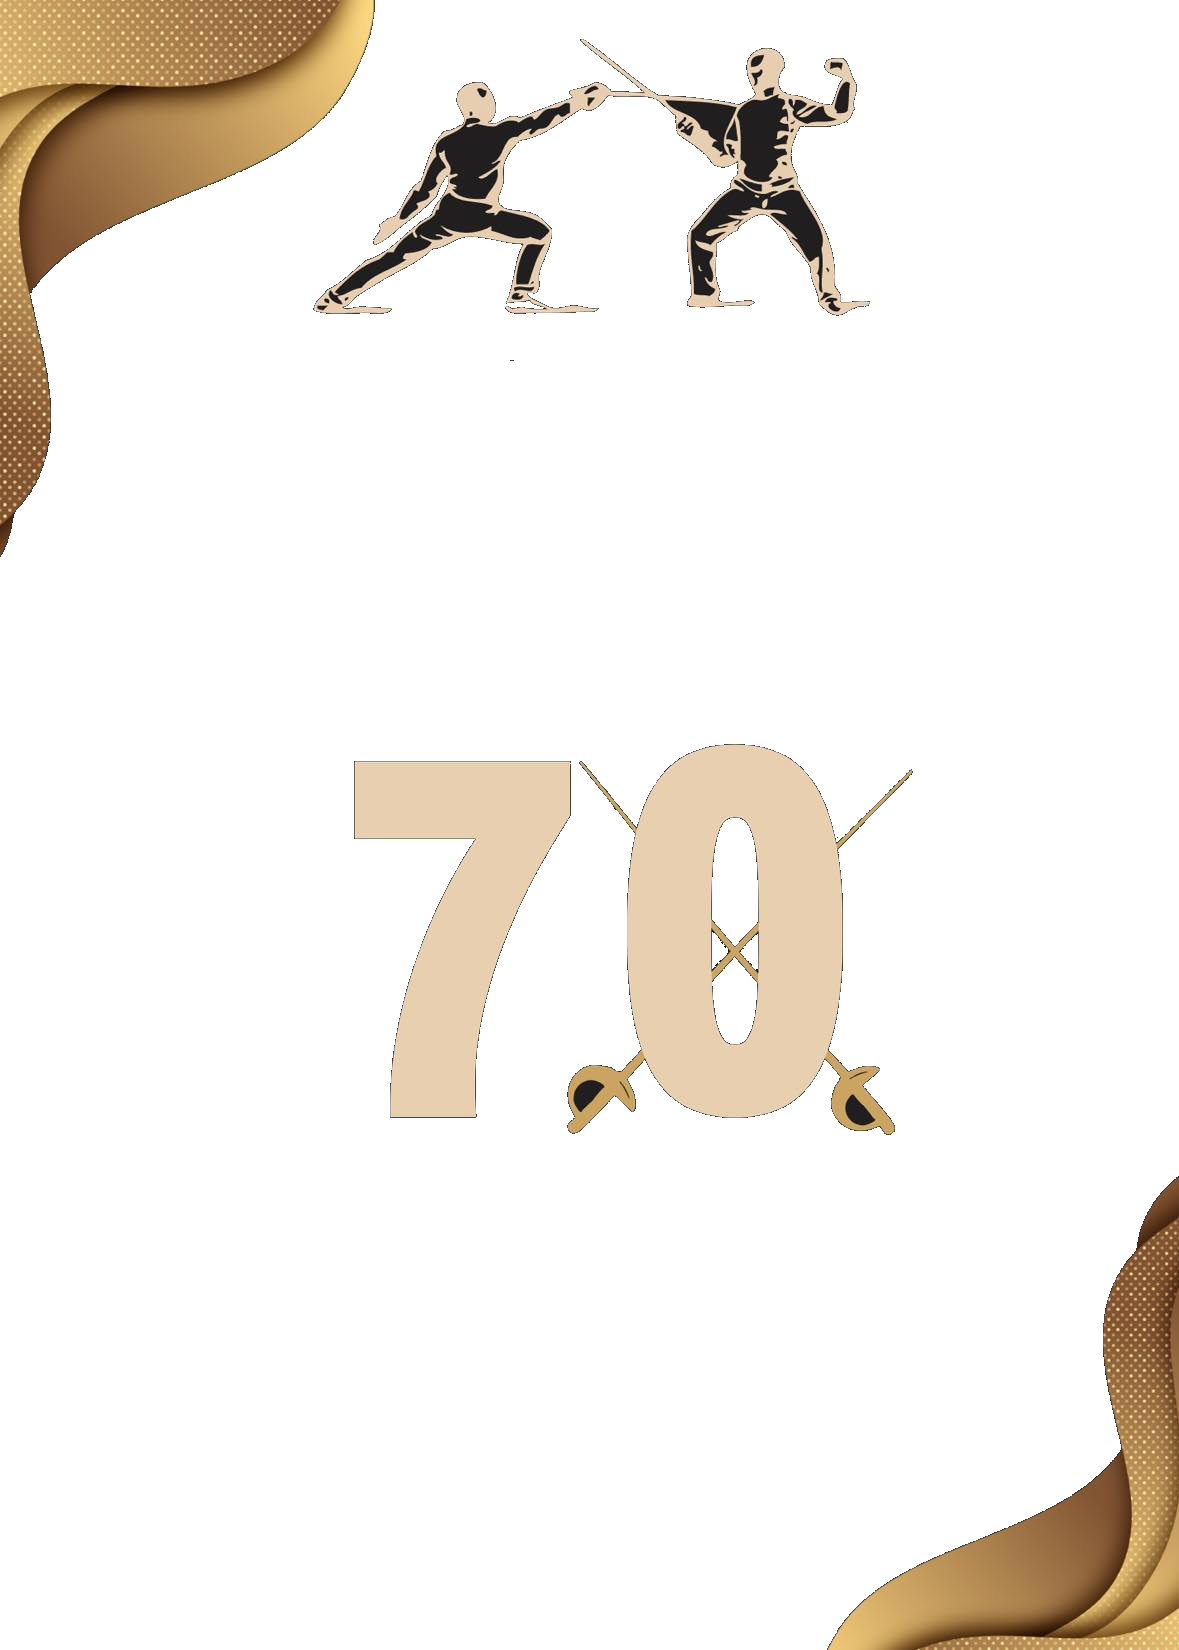
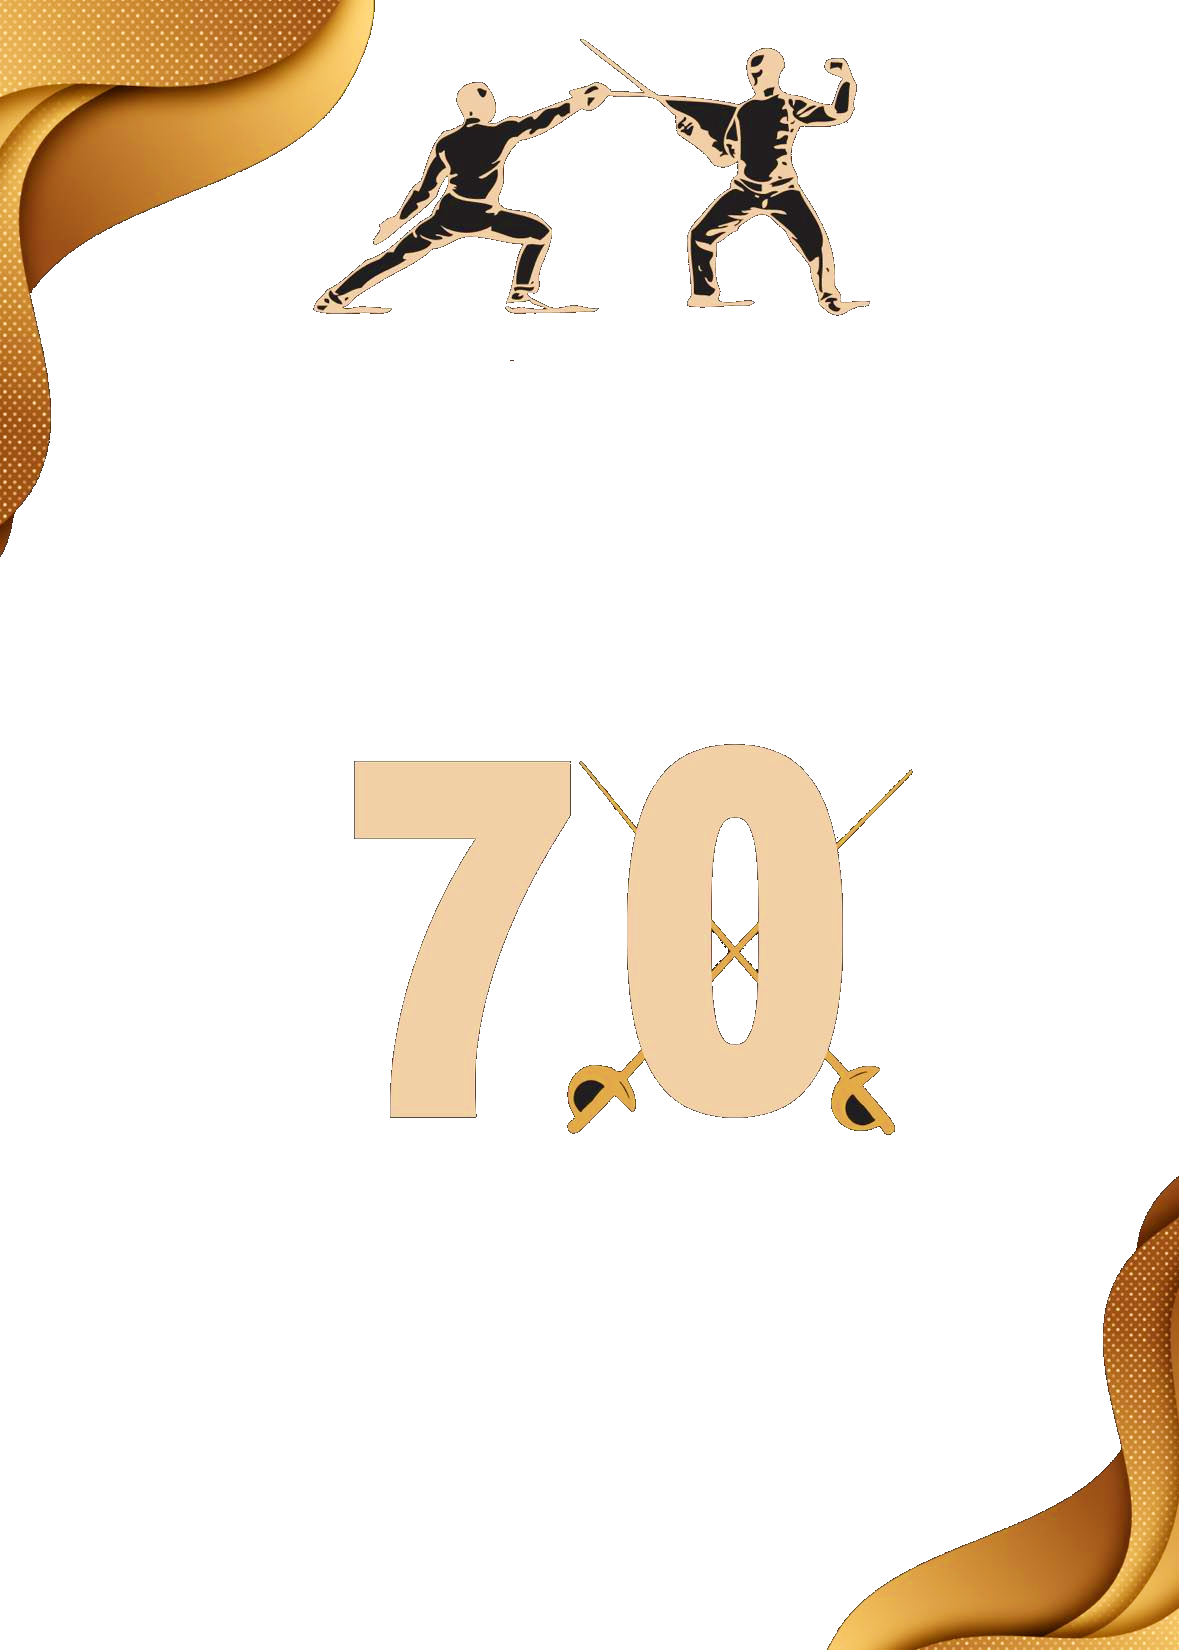
Add files via upload

diff --git a/index.html b/index.html
@@ -433,7 +433,7 @@
           }
         }
       </style>
-      <div class="t396">
+      <div class="t396" id="topBG">
         <div class="t396__artboard" data-artboard-recid="610154679" data-artboard-screens="320,480,640,960,1200"
           data-artboard-height="550" data-artboard-valign="center" data-artboard-height_vh="100"
           data-artboard-upscale="window" data-artboard-height-res-320="600" data-artboard-height-res-480="480"
@@ -473,6 +473,7 @@
                 data-original="https://static.tildacdn.com/tild3933-6665-4638-b337-623732613163/Asset_8new.svg" alt=""
                 imgfield="tn_img_1687430641703">
             </a>
+            <div id="name">Ալիկ Նավասարդյանի</div>
           </div>
           <div class="t396__elem tn-elem tn-elem__6101546791687949267373" data-elem-id="1687949267373"
             data-elem-type="image" data-field-top-value="0" data-field-left-value="1" data-field-width-value="227"
@@ -498,22 +499,24 @@
           });
         });</script><!-- /T396 -->
     </div>
+
     <div id="rec610154680" class="r t-rec t-rec_pt_90 t-rec_pb_15" style="padding-top:90px;padding-bottom:15px; "
       data-record-type="37"><!-- T022 -->
       <div class="t022 t-align_center">
         <div class="t-container">
           <div class="t-row">
             <div class="t-col t-col_6 t-prefix_3">
-              <div class="t022__text t-text t-text_sm" field="text">
+              <div class="t022__text t-text t-text_sm r_anim" field="text">
                 Հարգելի բարեկամներ, սիրով հրավիրում ենք
                 Ձեզ միասին տոնելու
                 <br>
-                <b>
+                <br>
+                <b id="name2">
                   Ալիկ Նավասարդյանի
                 </b>
                 <br>
                 <p>
-                  <i>70-ամյա հոբելյանը</i>
+                  <i><b>70</b>-ամյա հոբելյանը</i>
                 </p>
               </div>
               <div id="rec610154681" class="r t-rec t-rec_pt_15 t-rec_pb_15 r_showed r_anim"
@@ -536,8 +539,8 @@
               </div>
               <!-- timer -->
               <span id="timer">
+                <b class="timer_text">Մնացել է</b>
                 <div class="timer">
-
                   <div class="timer__items">
                     <div class="timer__item timer__days">00</div>
                     <div class="timer__item timer__hours">00</div>
@@ -606,7 +609,8 @@
         <div class="t-container t-align_center">
           <div class="t-col t-col_8 t-prefix_2">
             <b id="date">21.06.2024</b>
-            <img id="img-text" class="t485__img t-img t-margin_auto" src="images/Datenew.jpg" imgfield="img" style="width:500px;">
+            <img id="img-text" class="t485__img t-img t-margin_auto" src="images/Datenew.jpg" imgfield="img"
+              style="width:500px;">
           </div>
         </div>
       </div>
@@ -670,17 +674,16 @@
             <div class="t555__contentbox" style="height:400px;">
               <div class="t555__contentwrapper">
                 <div class="t555__title t-heading t-heading_sm" style="color:#38342e;" field="title">Ինչպես հասնել</div>
-                <div class="t-text t-text_md" style="color:#38342e;font-family:'MontserratARM';" field="text">Փարաքար,
-                  Երիտասարդության 34</div>
+                <div class="t-text t-text_md" style="color:#38342e;font-family:'MontserratARM';" field="text">
+                  <b>Lianna Garden Hall</b>
+                  <br>
+                  Փարաքար, Երիտասարդության 34
+                </div>
               </div>
             </div>
           </div>
           <div class="t-col t-col_7 " id="map_wrapp">
-            <div><a
-                href="https://yandex.ru/maps/org/lianna_garden_hall/191014009239/?utm_medium=mapframe&utm_source=maps"
-                style="color:#eee;font-size:12px;position:absolute;top:0px;">Lianna Garden Hall</a><a
-                href="https://yandex.ru/maps/105791/armavir/category/restaurant/184106394/?utm_medium=mapframe&utm_source=maps"
-                style="color:#eee;font-size:12px;position:absolute;top:14px;">Ресторан в Области Армавир</a>
+            <div>
               <iframe
                 src="https://yandex.ru/map-widget/v1/?ll=44.405580%2C40.162730&mode=search&oid=191014009239&ol=biz&z=14.47"
                 width="560" height="400" frameborder="1" allowfullscreen="true" style="position:relative;"></iframe>

diff --git a/css/style.css b/css/style.css
@@ -28,23 +28,21 @@ body {
 }
 
 #rec610154679 .tn-elem[data-elem-id="1687436199612"] .tn-atom {
+    background: transparent !important;
+}
+#topBG {
     background: linear-gradient(0.91turn, #282828 12%, rgba(1, 1, 1, 1) 98%);
 }
 
-#t396__filter0000 {
-    background: #141313 !important;
-}
-
 #img-text {
-
     display: none;
 }
 
 #date {
     font-size: 60px;
     font-weight: 300 !important;
-    filter: drop-shadow(3px 3px 3px #a9957d);
-    color: #c8a16d;
+    filter: drop-shadow(2px 2px 2px #a9957d) !important;
+    color: #c17a2e !important;
 }
 
 #Ymaps {
@@ -69,6 +67,22 @@ iframe {
 }
 
 #timer {
-    filter: drop-shadow(3px 3px 3px #a9957d);
-    color: #c8a16d;
+    filter: drop-shadow(2px 2px 2px #a9957d) !important;
+    color: #c17a2e !important;
+}
+
+.timer_text {
+    color: black;
+}
+
+#name {
+    display: none;
+    position: relative;
+    transform: translate(-27%, -70px);
+    font-size: 25px;
+    color: white;
+    min-width: 320px;
+}
+#name2{
+    color: #c17a2e !important;
 }
